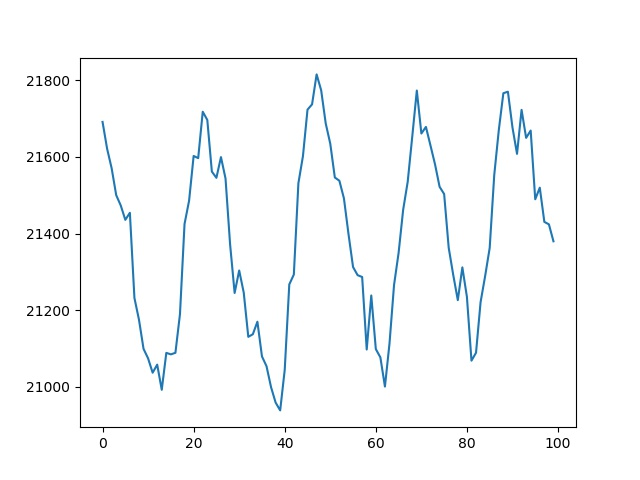
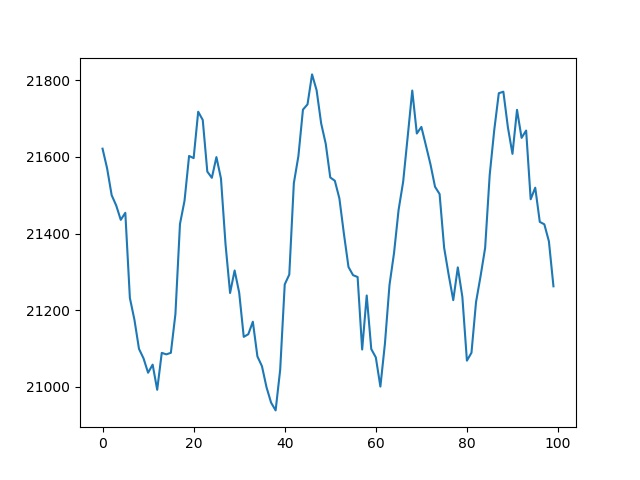
'auto'

Changed region(s): [[0.1875, 0.1562, 0.875, 0.875], [0.1562, 0.25, 0.1875, 0.4375]]

diff --git a/README.md b/README.md
@@ -1,5 +1,5 @@
 Frizider live: 5
-21379.63333333333 
+21262.141666666666 
 0
 Temperatura:
 
